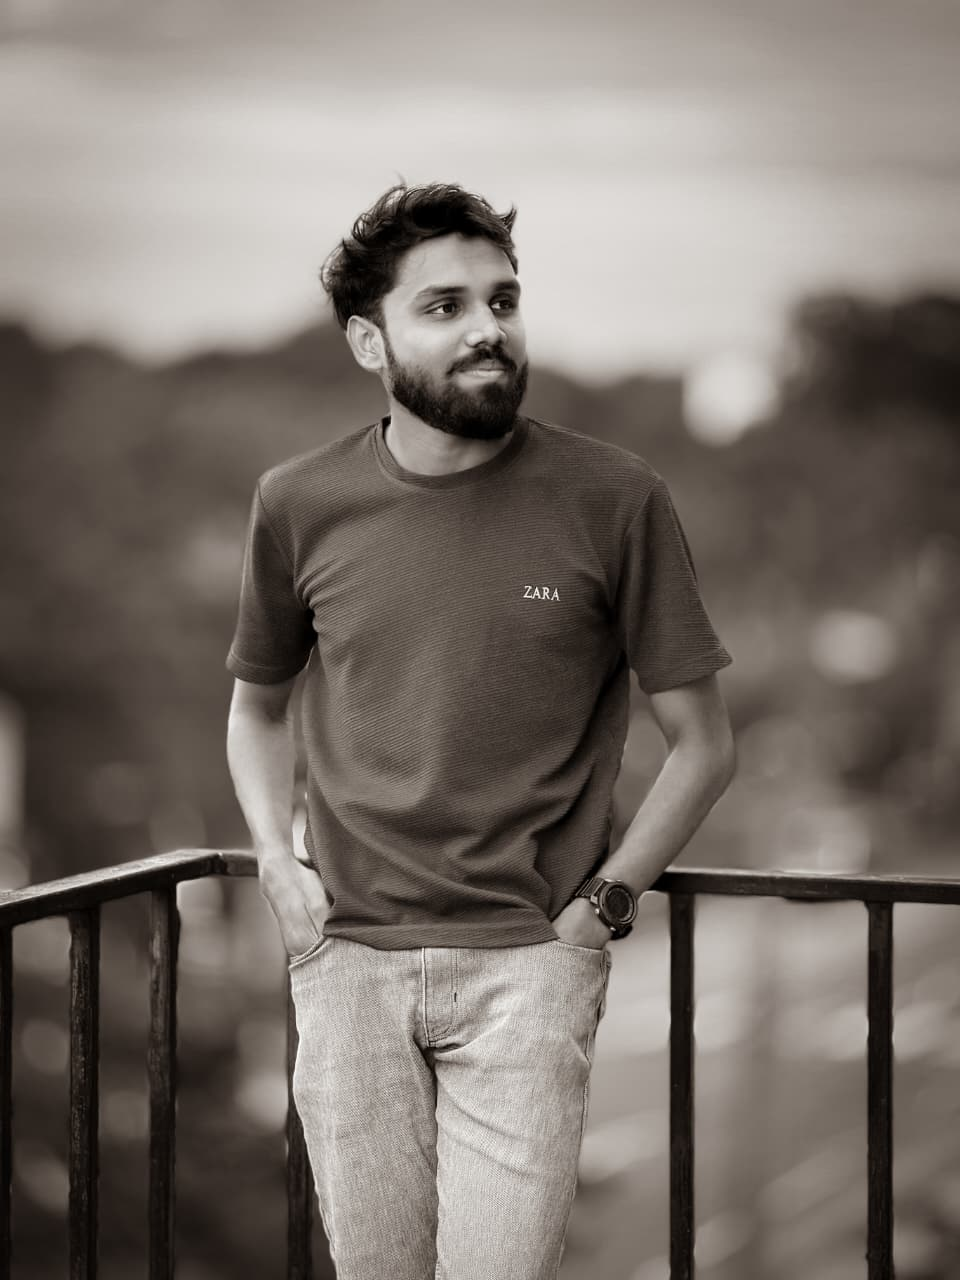
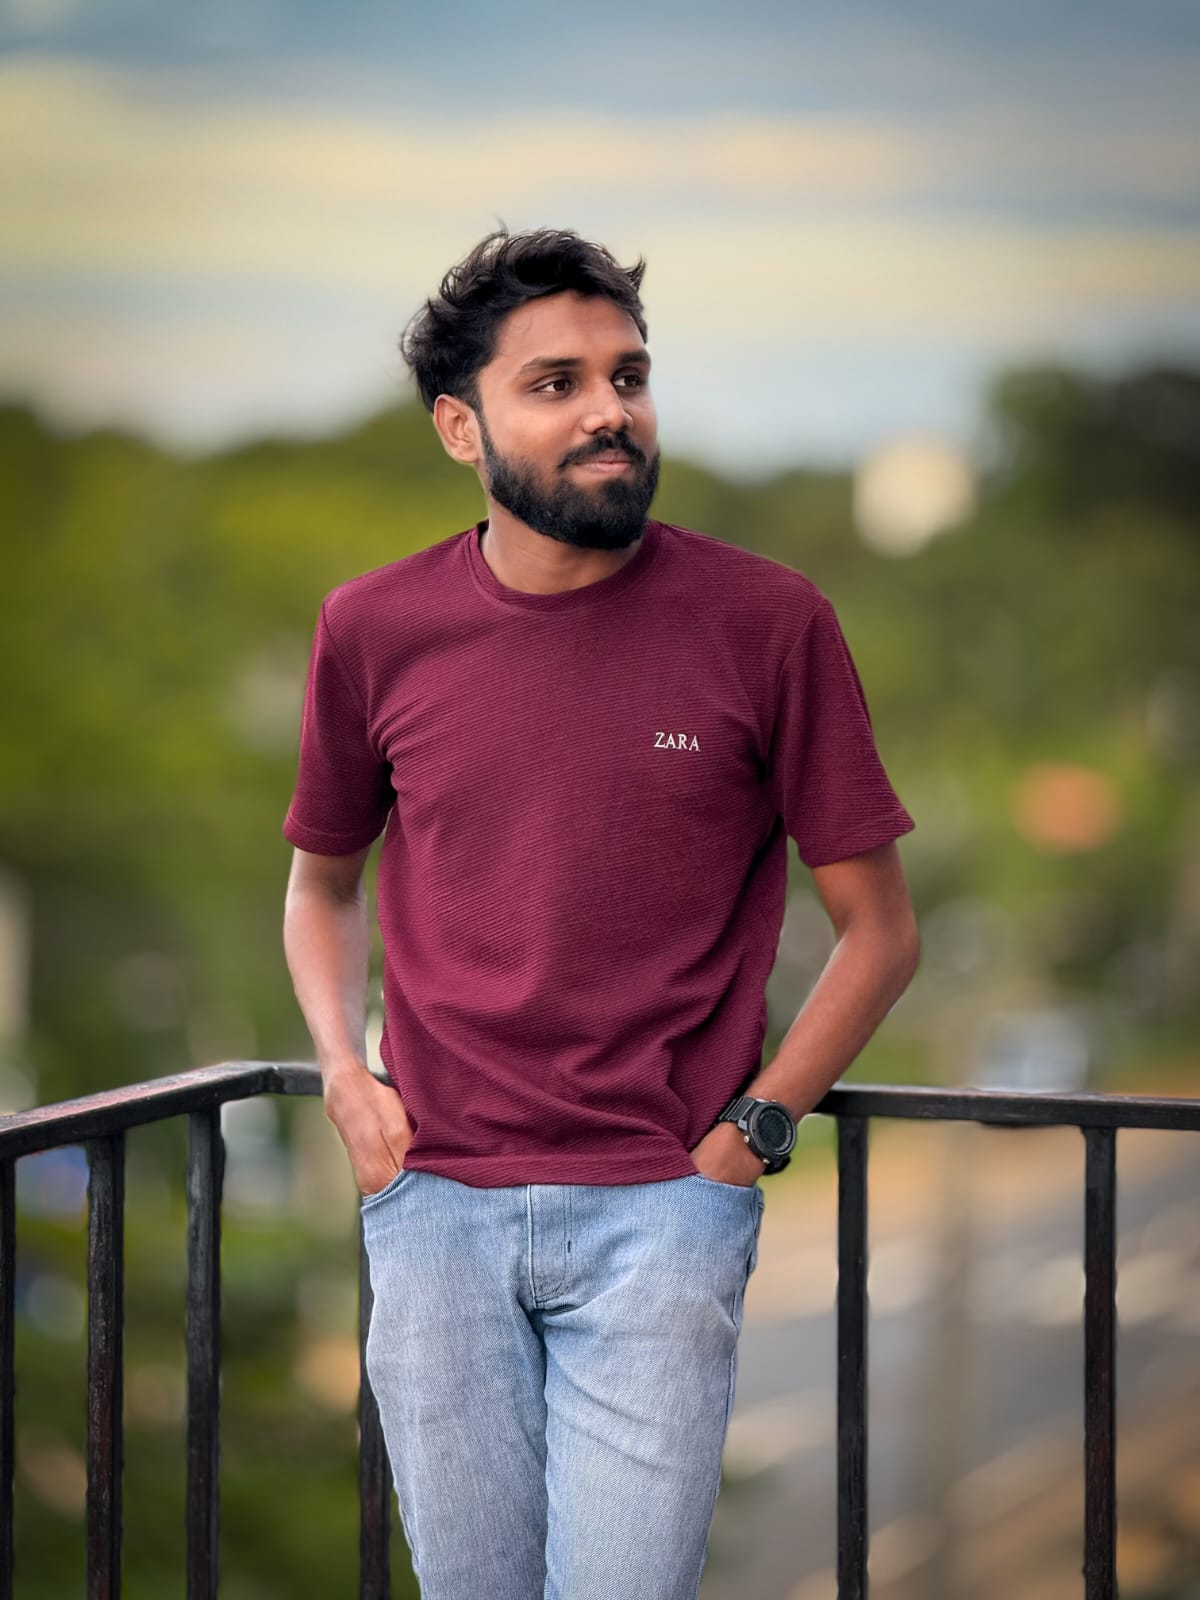
feat: polish portfolio styling and update page title

diff --git a/src/components/About.jsx b/src/components/About.jsx
@@ -19,7 +19,7 @@ function About() {
             <p className="text-[#A1A1AA] text-base md:text-lg font-light leading-relaxed">
               {profile.about}
             </p>
-            <div className="p-6 bg-[#161616] border border-[#27272A] rounded-xl space-y-4">
+            <div className="p-6 bg-[#161616] border border-[#27272A] shadow-[inset_0_1px_0_0_rgba(255,255,255,0.05)] hover:border-[#A1A1AA]/30 transition-all duration-300 rounded-xl space-y-4">
               <h3 className="text-sm font-semibold uppercase tracking-wider text-white">Education</h3>
               <div className="space-y-1">
                 <p className="text-white font-medium text-sm md:text-base">
@@ -34,23 +34,23 @@ function About() {
 
           {/* Stats & Quick Facts - Right 1 Column */}
           <div className="flex flex-col gap-4">
-            <div className="p-6 bg-[#161616] border border-[#27272A] rounded-xl text-left space-y-2">
+            <div className="p-6 bg-[#161616] border border-[#27272A] shadow-[inset_0_1px_0_0_rgba(255,255,255,0.05)] hover:border-[#A1A1AA]/30 transition-all duration-300 rounded-xl text-left space-y-2">
               <span className="text-xs font-semibold uppercase tracking-wider text-[#A855F7]">Location</span>
               <p className="text-white font-medium text-sm md:text-base">{profile.location}</p>
             </div>
 
             <div className="grid grid-cols-2 gap-4">
-              <div className="p-6 bg-[#161616] border border-[#27272A] rounded-xl text-left space-y-1">
+              <div className="p-6 bg-[#161616] border border-[#27272A] shadow-[inset_0_1px_0_0_rgba(255,255,255,0.05)] hover:border-[#A1A1AA]/30 transition-all duration-300 rounded-xl text-left space-y-1">
                 <span className="block text-2xl md:text-3xl font-bold text-white">{profile.stats.technologies}</span>
                 <span className="text-xs text-[#A1A1AA] uppercase tracking-wider">Technologies</span>
               </div>
-              <div className="p-6 bg-[#161616] border border-[#27272A] rounded-xl text-left space-y-1">
+              <div className="p-6 bg-[#161616] border border-[#27272A] shadow-[inset_0_1px_0_0_rgba(255,255,255,0.05)] hover:border-[#A1A1AA]/30 transition-all duration-300 rounded-xl text-left space-y-1">
                 <span className="block text-2xl md:text-3xl font-bold text-white">{profile.stats.projects}</span>
                 <span className="text-xs text-[#A1A1AA] uppercase tracking-wider">Projects</span>
               </div>
             </div>
             
-            <div className="p-6 bg-[#161616] border border-[#27272A] rounded-xl text-left space-y-1">
+            <div className="p-6 bg-[#161616] border border-[#27272A] shadow-[inset_0_1px_0_0_rgba(255,255,255,0.05)] hover:border-[#A1A1AA]/30 transition-all duration-300 rounded-xl text-left space-y-1">
               <span className="block text-2xl md:text-3xl font-bold text-white">{profile.stats.gpa}</span>
               <span className="text-xs text-[#A1A1AA] uppercase tracking-wider">GPA / 4.0</span>
             </div>

diff --git a/src/components/Hero.jsx b/src/components/Hero.jsx
@@ -11,7 +11,7 @@ function Hero() {
             <span className="text-xs md:text-sm font-semibold uppercase tracking-widest text-[#A855F7]">
               {profile.title}
             </span>
-            <h1 className="text-5xl sm:text-6xl md:text-7xl font-black tracking-tight text-white leading-none">
+            <h1 className="text-5xl sm:text-6xl md:text-7xl font-black tracking-tighter text-white leading-none">
               Nimshan<br />
               Dulantha<br />
               Dasanayaka
@@ -25,7 +25,7 @@ function Hero() {
           <div className="flex flex-wrap gap-4 pt-2">
             <a
               href="#projects"
-              className="px-6 py-3 bg-[#A855F7] hover:bg-[#b56ef8] text-white font-medium rounded-lg text-sm transition-colors duration-200"
+              className="px-6 py-3 bg-[#A855F7] hover:bg-[#b56ef8] hover:-translate-y-0.5 shadow-lg shadow-[#A855F7]/10 text-white font-medium rounded-lg text-sm transition-all duration-300"
             >
               View Projects
             </a>
@@ -33,7 +33,7 @@ function Hero() {
               href={profile.resume}
               target="_blank"
               rel="noopener noreferrer"
-              className="px-6 py-3 border border-[#27272A] hover:bg-[#161616] hover:border-[#A1A1AA] text-white font-medium rounded-lg text-sm transition-all duration-200"
+              className="px-6 py-3 border border-[#27272A] hover:bg-[#161616] hover:border-[#A1A1AA] hover:-translate-y-0.5 text-white font-medium rounded-lg text-sm transition-all duration-300"
             >
               Download Resume
             </a>
@@ -42,11 +42,11 @@ function Hero() {
 
         {/* Right Column */}
         <div className="flex justify-center md:justify-end items-center">
-          <div className="bg-[#161616] p-2 rounded-2xl border border-[#27272A] w-72 h-72 sm:w-80 sm:h-80 md:w-96 md:h-96">
+          <div className="bg-[#161616] p-2 rounded-2xl border border-[#27272A] shadow-[inset_0_1px_0_0_rgba(255,255,255,0.05)] w-72 h-72 sm:w-80 sm:h-80 md:w-96 md:h-96 overflow-hidden group">
             <img
               src={heroImg}
               alt="Nimshan Dulantha Dasanayaka"
-              className="w-full h-full rounded-xl object-cover grayscale hover:grayscale-0 transition-all duration-500"
+              className="w-full h-full rounded-xl object-cover grayscale group-hover:grayscale-0 group-hover:scale-[1.02] transition-all duration-500"
             />
           </div>
         </div>

diff --git a/src/components/ProjectCard.jsx b/src/components/ProjectCard.jsx
@@ -7,13 +7,13 @@ function ProjectCard({ project }) {
   const hasLiveUrl = live && live !== "none" && live !== "#";
 
   return (
-    <div className="bg-[#161616] border border-[#27272A] rounded-xl overflow-hidden flex flex-col group hover:border-[#A1A1AA] transition-all duration-300">
+    <div className="bg-[#161616] border border-[#27272A] shadow-[inset_0_1px_0_0_rgba(255,255,255,0.05)] rounded-xl overflow-hidden flex flex-col group hover:border-[#A855F7]/40 transition-all duration-300">
       {/* Image container */}
       <div className="overflow-hidden aspect-video relative border-b border-[#27272A]">
         <img
           src={image}
           alt={title}
-          className="w-full h-full object-cover group-hover:scale-105 transition-transform duration-500 grayscale group-hover:grayscale-0"
+          className="w-full h-full object-cover group-hover:scale-[1.03] transition-transform duration-500 grayscale group-hover:grayscale-0"
         />
       </div>
 
@@ -44,7 +44,7 @@ function ProjectCard({ project }) {
             href={github}
             target="_blank"
             rel="noopener noreferrer"
-            className="flex items-center gap-2 text-xs font-semibold uppercase tracking-wider text-[#A1A1AA] hover:text-white transition-colors duration-200"
+            className="flex items-center gap-2 text-xs font-semibold uppercase tracking-wider text-[#A1A1AA] hover:text-white hover:-translate-y-0.5 transition-all duration-200"
           >
             <FiGithub size={16} />
             Code
@@ -55,7 +55,7 @@ function ProjectCard({ project }) {
               href={live}
               target="_blank"
               rel="noopener noreferrer"
-              className="flex items-center gap-2 text-xs font-semibold uppercase tracking-wider text-[#A1A1AA] hover:text-[#A855F7] transition-colors duration-200"
+              className="flex items-center gap-2 text-xs font-semibold uppercase tracking-wider text-[#A1A1AA] hover:text-[#A855F7] hover:-translate-y-0.5 transition-all duration-200"
             >
               <FiExternalLink size={16} />
               Live Demo

diff --git a/index.html b/index.html
@@ -4,7 +4,7 @@
     <meta charset="UTF-8" />
     <link rel="icon" type="image/svg+xml" href="/favicon.svg" />
     <meta name="viewport" content="width=device-width, initial-scale=1.0" />
-    <title>portfolio</title>
+    <title>Nimshan Dulantha | Full Stack Developer</title>
   </head>
   <body>
     <div id="root"></div>

diff --git a/src/components/Contact.jsx b/src/components/Contact.jsx
@@ -53,7 +53,7 @@ function Contact() {
               href={link.href}
               target={link.isExternal ? "_blank" : undefined}
               rel={link.isExternal ? "noopener noreferrer" : undefined}
-              className="p-6 bg-[#161616] border border-[#27272A] hover:border-[#A855F7] rounded-xl flex flex-col items-center justify-center text-center space-y-4 group transition-all duration-300"
+              className="p-6 bg-[#161616] border border-[#27272A] shadow-[inset_0_1px_0_0_rgba(255,255,255,0.05)] hover:border-[#A855F7]/50 hover:-translate-y-0.5 rounded-xl flex flex-col items-center justify-center text-center space-y-4 group transition-all duration-300"
             >
               <div className="p-3 bg-[#0B0B0B] border border-[#27272A] text-[#A1A1AA] group-hover:text-white group-hover:border-[#A855F7]/50 rounded-lg transition-colors duration-200">
                 {link.icon}

diff --git a/src/components/Navbar.jsx b/src/components/Navbar.jsx
@@ -24,7 +24,7 @@ function Navbar() {
             <li key={link.label}>
               <a
                 href={link.href}
-                className="hover:text-white transition-colors duration-200"
+                className="relative pb-1 hover:text-white transition-colors duration-200 after:absolute after:bottom-0 after:left-0 after:h-[2px] after:w-0 after:bg-[#A855F7] after:transition-all after:duration-300 hover:after:w-full"
               >
                 {link.label}
               </a>

diff --git a/src/components/Skills.jsx b/src/components/Skills.jsx
@@ -26,7 +26,7 @@ function Skills() {
           {Object.entries(skills).map(([key, list]) => (
             <div
               key={key}
-              className="p-6 bg-[#161616] border border-[#27272A] rounded-xl text-left space-y-4 hover:border-[#A855F7]/30 transition-all duration-300"
+              className="p-6 bg-[#161616] border border-[#27272A] shadow-[inset_0_1px_0_0_rgba(255,255,255,0.05)] rounded-xl text-left space-y-4 hover:border-[#A855F7]/40 transition-all duration-300"
             >
               <h3 className="text-sm font-semibold uppercase tracking-wider text-white border-b border-[#27272A] pb-2">
                 {categoryNames[key] || key}

diff --git a/src/styles/globals.css b/src/styles/globals.css
@@ -1,3 +1,4 @@
+@import url('https://fonts.googleapis.com/css2?family=Inter:wght@300;400;500;600;700;800;900&display=swap');
 @import "tailwindcss";
 
 @theme {